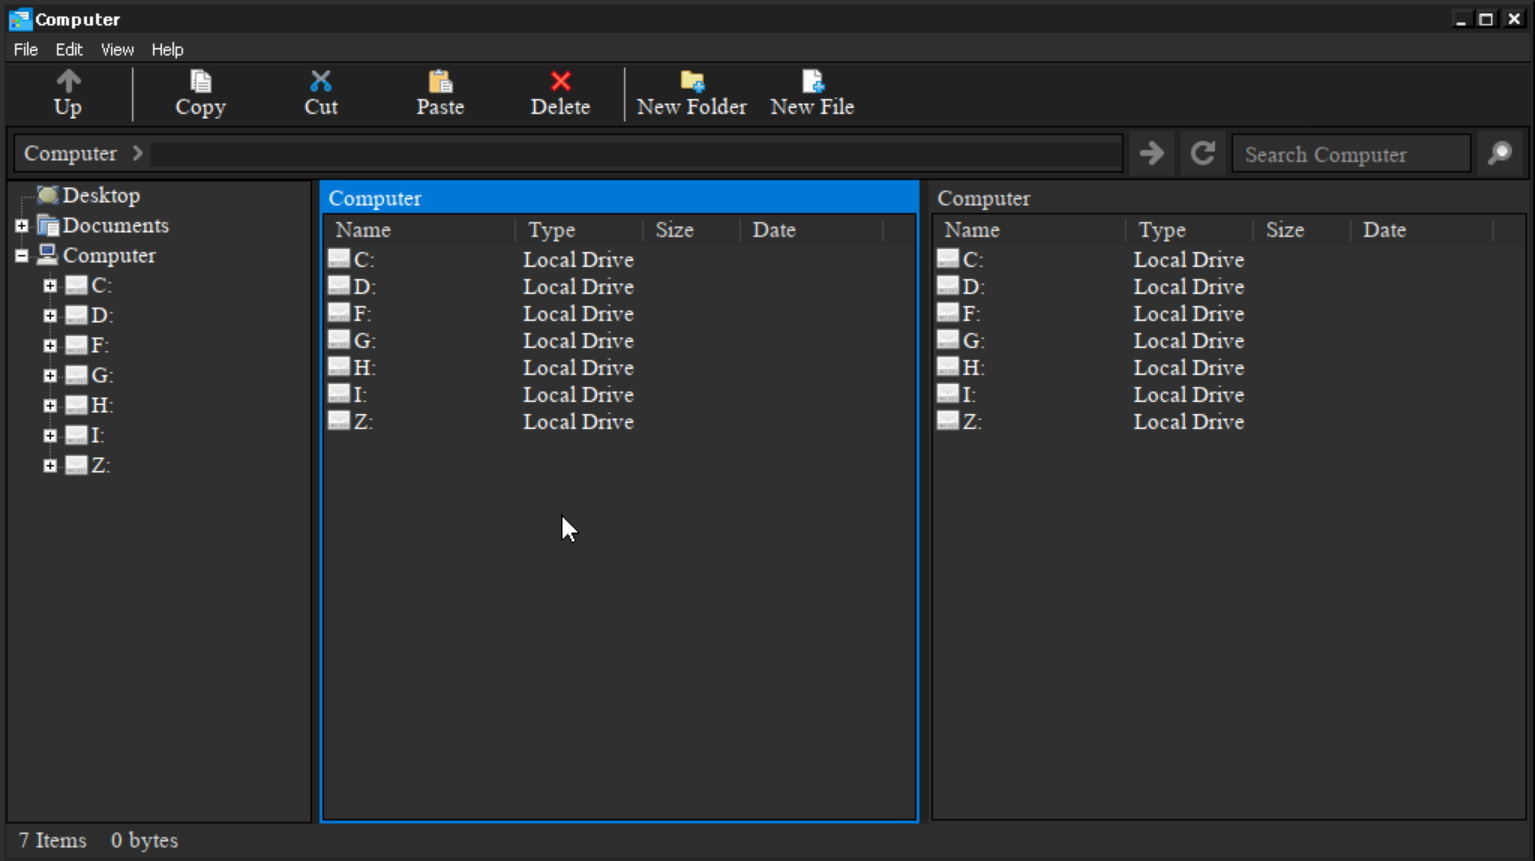
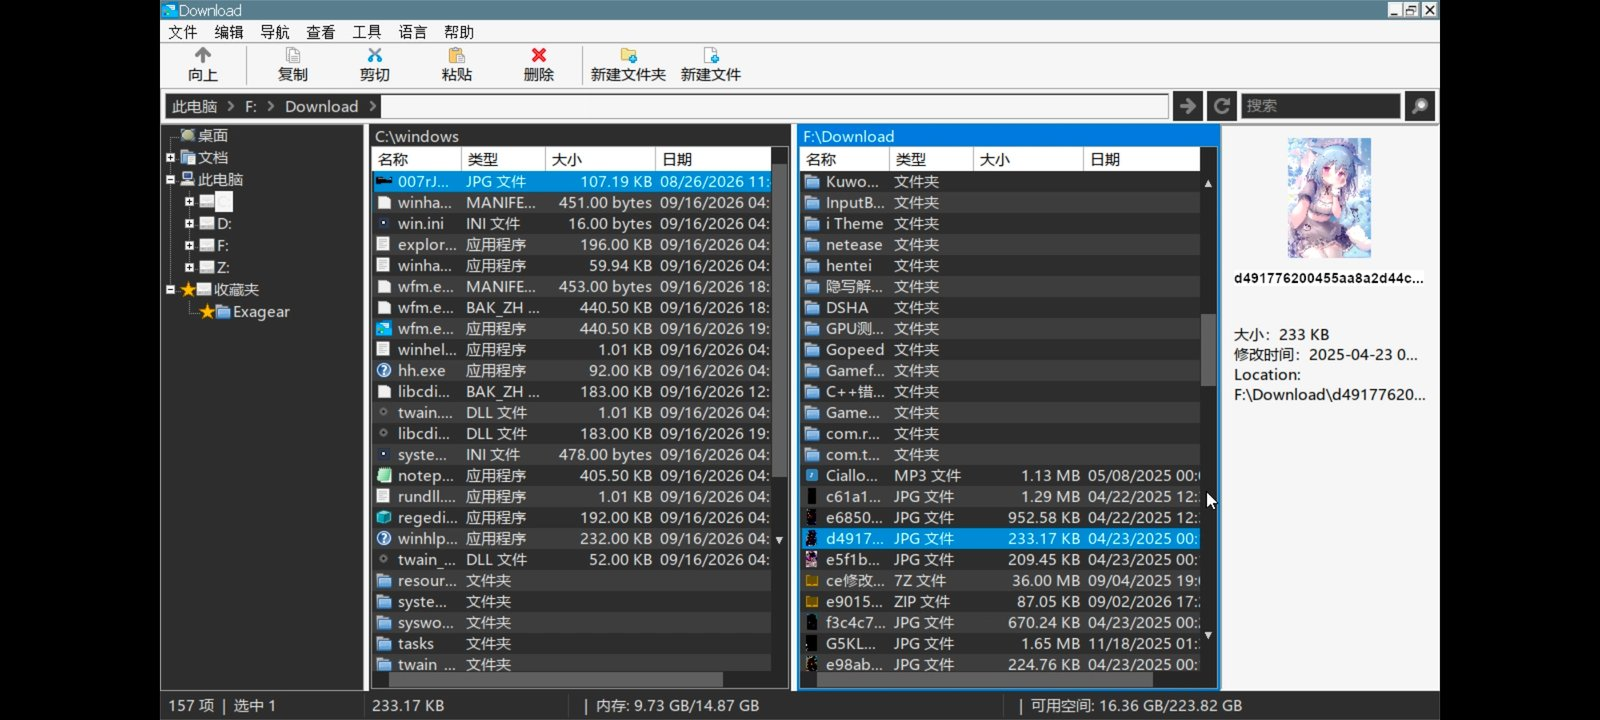
chore: 仓库管理优化
完善 .gitignore 忽略规则（编译产物/压缩包/临时文件）
整理 CHANGELOG.md 版本历史
添加 docs/ 目录存放界面截图
更新预览截图为最新版本

diff --git a/CHANGELOG.md b/CHANGELOG.md
@@ -1,0 +1,74 @@
+# Changelog
+
+All notable changes to **BFM-Zh (Banner File Manager 中文美化增强版)** are documented in this file.
+
+Base project: [The412Banner/banner-file-manager](https://github.com/The412Banner/banner-file-manager) v1.2.1
+License: GPL-3.0-or-later
+
+---
+
+## [1.2.1-zh.4] - 2026-09-29
+
+### Fixed
+- 覆盖确认"逐个决定"模式：递归复制文件夹时子文件不再绕过覆盖确认
+- 修复 OVERWRITE_RESULT_EACH 与 OVERWRITE_EACH 枚举值冲突
+- 安装脚本：删除末尾调用 7z2603-x64.exe 的旧代码残留
+- release.yml：统一 7-Zip 打包方式为便携版，修复正式发布包 7-Zip 安装失败
+- Makefile：添加缺少的 config/theme/favorites/diff 四个源文件
+
+### Added
+- 7-Zip 便携版集成：CI 自动下载官方最新版并解压为完整已安装文件
+- 7-Zip 查找路径扩展：支持 Z:\opt\apps\7-Zip\ 等多个位置
+
+### Changed
+- 版本号更新为 v1.2.1-zh.4
+- README.md 优化：添加项目徽章、目录导航、7-Zip 便携版描述
+
+---
+
+## [1.2.1-zh.3] - 2026-09-16
+
+### Added
+- 深色主题：文件列表、左侧树、状态栏、搜索框全面深色化
+- 全视图图标识别：大图标/小图标/列表/详细信息均支持格式图标
+- 图片缩略图预览
+- 7-Zip 压缩/解压/测试完整性集成
+
+### Fixed
+- 字体模糊问题
+- 右键菜单英文残留
+- 安装脚本兼容性
+
+---
+
+## [1.2.1-zh.2] - 2026-09-13
+
+### Added
+- 右键增强菜单（压缩、加速运行、启动参数、转区、提取图标）
+- 预览窗格（图片、文本、文件属性）
+- 双面板内容对比
+- 批量重命名
+- 哈希计算（MD5/SHA1/SHA256）
+
+### Fixed
+- 稳定性优化，减少目录加载崩溃
+- 字符截断问题
+
+---
+
+## [1.2.1-zh.1] - 2026-09-09
+
+### Added
+- 完整中文界面（中/英/葡/俄 四语言）
+- 双面板文件管理
+- 收藏夹功能
+- 三模式主题（亮色/暗色/跟随系统）
+- 注册表配置持久化
+- 标签页容器
+- 文本逐行 diff 比较（LCS 算法）
+- 右键"加速运行（清内存）"
+- 工具菜单快速启动（记事本/CMD/注册表/任务管理器）
+- 地址栏自动补全
+
+### Base
+- 同步上游 The412Banner/banner-file-manager v1.2.1
